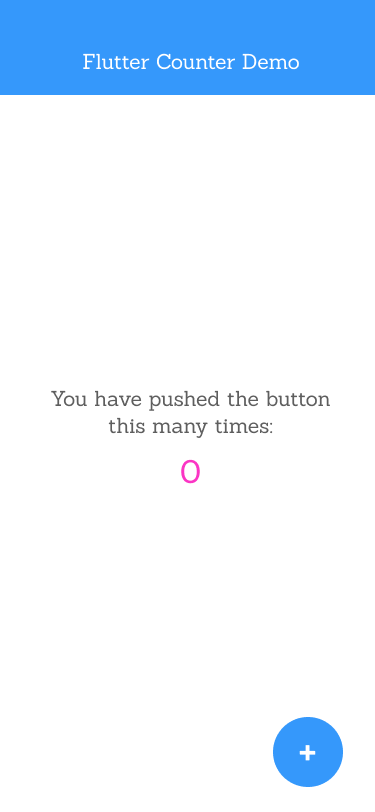
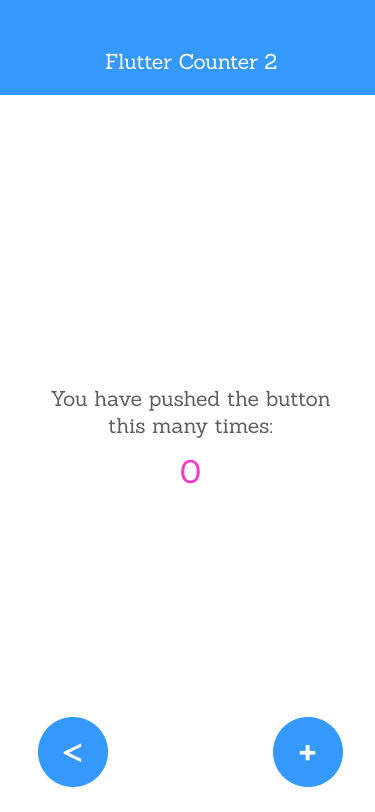
Auto-generated commit by Parabeac Cloud

Changed region(s): [[0.088, 0.8621, 0.2933, 0.9852], [0.2053, 0.0616, 0.792, 0.0924]]

diff --git a/lib/views/page_1/my_app_screen.g.dart b/lib/views/page_1/my_app_screen.g.dart
@@ -71,6 +71,50 @@ class _MyAppScreen extends State<MyAppScreen> {
                   ]))),
         ),
         Positioned(
+          right: 267.0,
+          width: 70.0,
+          bottom: 25.0,
+          height: 70.0,
+          child: CounterButtonCustom(
+              child: Container(
+                  decoration: BoxDecoration(),
+                  child: Stack(children: [
+                    Positioned(
+                      left: 0,
+                      width: 70.0,
+                      top: 0,
+                      height: 70.0,
+                      child: Image.asset(
+                        'assets/images/ellipse1.png',
+                        package: 'counter_app',
+                        height: 70.0,
+                        width: 70.0,
+                        fit: BoxFit.none,
+                      ),
+                    ),
+                    Positioned(
+                      left: 14.0,
+                      width: 41.0,
+                      top: 0,
+                      height: 70.0,
+                      child: Container(
+                          height: 70.0,
+                          width: 41.0,
+                          child: AutoSizeText(
+                            '<',
+                            style: TextStyle(
+                              fontFamily: 'Sanchez',
+                              fontSize: 48,
+                              fontWeight: FontWeight.w400,
+                              letterSpacing: 0,
+                              color: Colors.white,
+                            ),
+                            textAlign: TextAlign.center,
+                          )),
+                    ),
+                  ]))),
+        ),
+        Positioned(
           left: MediaQuery.of(context).size.width * 0.101,
           width: MediaQuery.of(context).size.width * 0.813,
           top: MediaQuery.of(context).size.height * 0.474,
